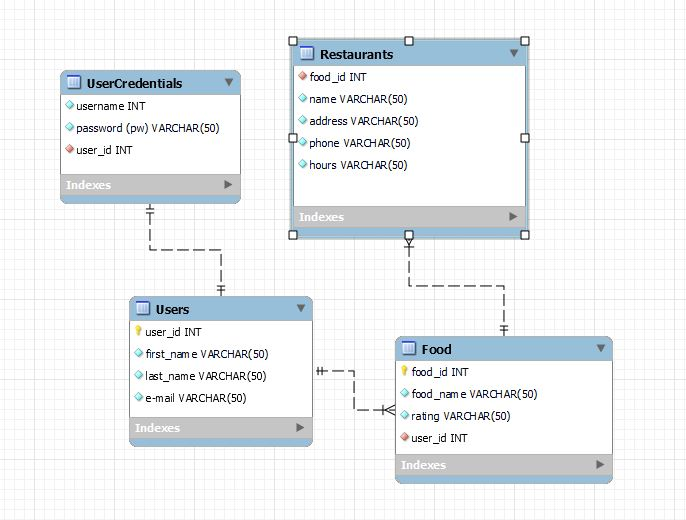
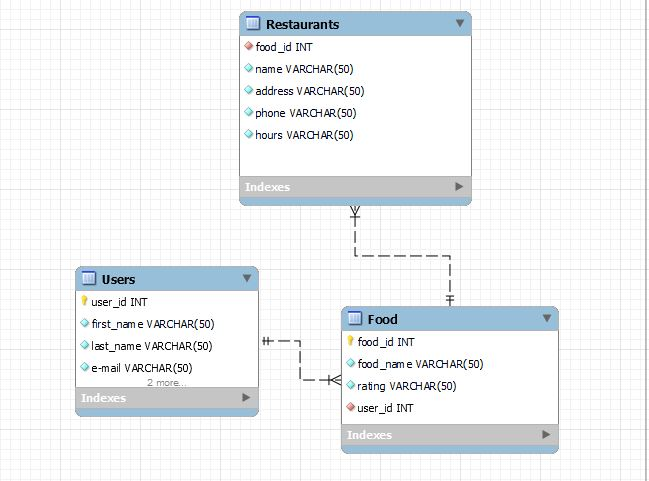
update info on readme and picture of tables

Changed region(s): [[0.0616, 0.0, 0.8937, 0.9667], [0.9861, 0.0, 1.0, 1.0], [0.2157, 0.4678, 0.339, 0.499]]

diff --git a/README.md b/README.md
@@ -29,9 +29,8 @@ Create new repo titled the name of your app with a README.md file.
 
 **Tables**
 1. users
-2. userCredentials
-3. food items
-4. restaurants
+2. food items
+3. restaurants
 
 **Fields**
 
@@ -45,15 +44,13 @@ Create new repo titled the name of your app with a README.md file.
 
 -email
 
-*2. For userCredentials Table*
-
--user_id (Foreign Key)
-
 -username
 
 -pw
 
-*3. For food items Table*
+
+
+*2. For food items Table*
 
 -food_id (Primary Key)
 
@@ -63,7 +60,7 @@ Create new repo titled the name of your app with a README.md file.
 
 -rating
 
-*4. For restaurants Table*
+*3. For restaurants Table*
 
 -food_id (Foreign Key)
 
@@ -76,8 +73,6 @@ Create new repo titled the name of your app with a README.md file.
 -hours
 
 **Relationships**
-
-**Each user has one and only one userCredentials.*
 
 *Each user has many food items connected to their account through the user_id.*
 
